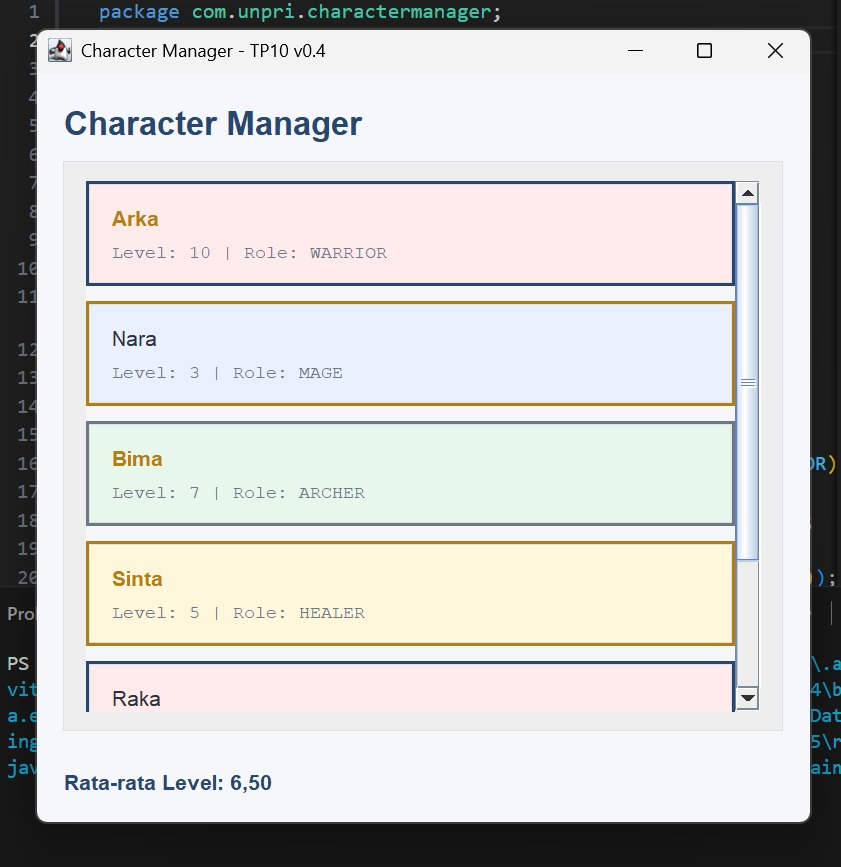
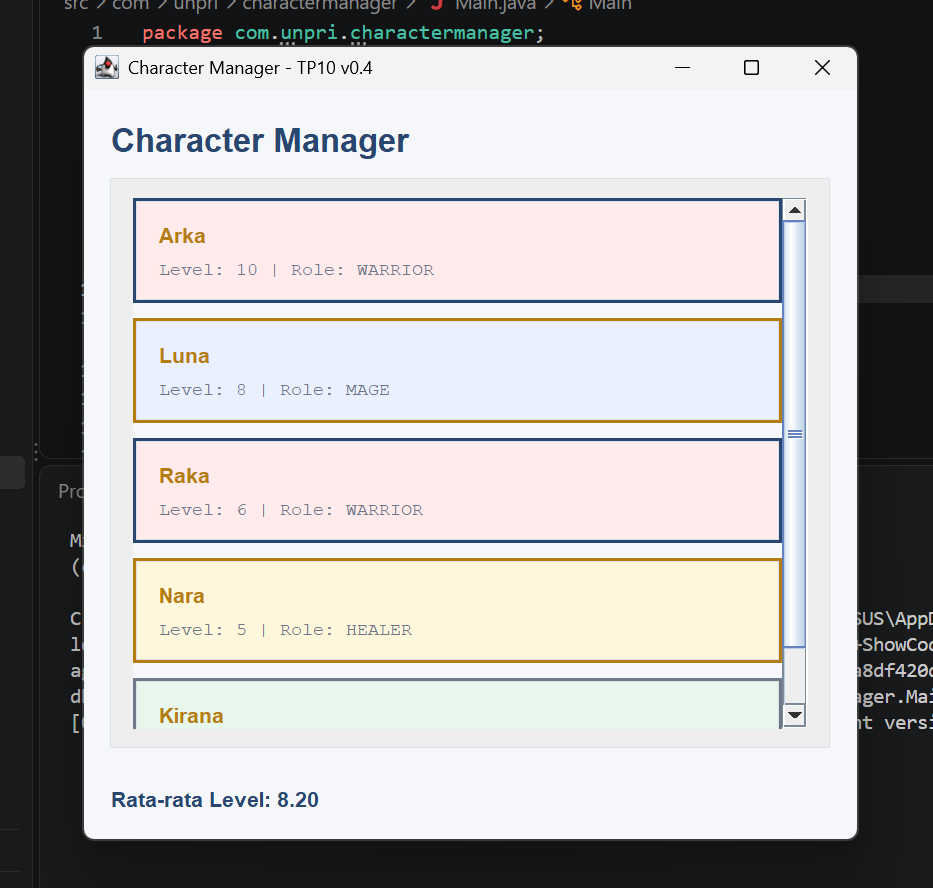
Update README and documentation images

Changed region(s): [[0.0, 0.0, 1.0, 0.9654]]

diff --git a/TP05/Character Manager/README.md b/TP05/Character Manager/README.md
@@ -167,7 +167,7 @@ Screenshot sebelum perubahan data
 (<![alt text](before.png)>)
 
 Screenshot sesudah perubahan data
-(<![alt text](after.png)>)
+![alt text](<after.png>)
 
 ## Google Docs
 
